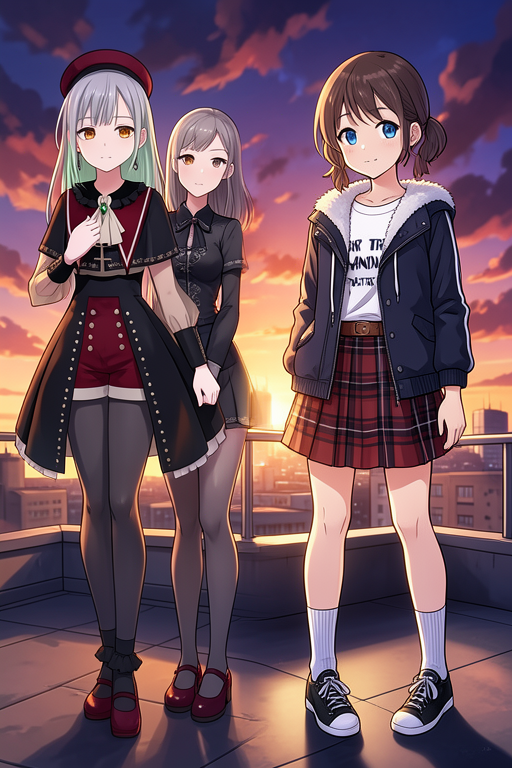
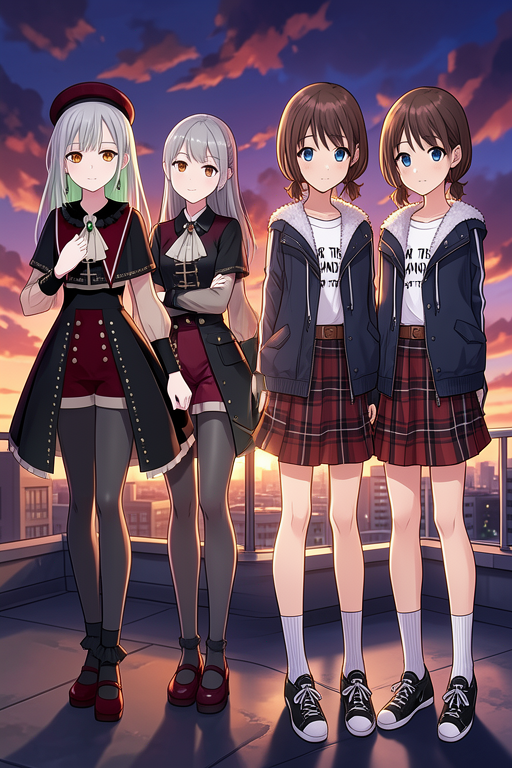
Improve image generation by adding options to skip scoring and handle errors
Add `--no-score` flag to skip scoring and improve retry logic for TPD errors in test_2pass_hug.py. Update asset metadata and images.

Replit-Commit-Author: Agent
Replit-Commit-Session-Id: 93f1d019-95a0-4049-84e3-6b3b1efc4c86
Replit-Commit-Checkpoint-Type: full_checkpoint
Replit-Commit-Event-Id: 5ef6bc3c-0992-4bcb-be31-88c50732a25e
Replit-Helium-Checkpoint-Created: true

diff --git a/test_2pass_hug.py b/test_2pass_hug.py
@@ -42,13 +42,15 @@ NINA_APPEARANCE = (
 
 # Pass 1: proven side-by-side — ConditioningSetMask hard masks deliver 9.6/10 and 10/10
 PASS1_PROMPT = (
-    "Mortis and Nina standing side by side on a rooftop at sunset, "
+    "only two girls, Mortis and Nina standing side by side on a rooftop at sunset, "
+    "exactly two characters, no extra people, "
     "full body view, anime illustration, dramatic sky background"
 )
 # Pass 2: ref-guided pose nudge toward contact / hugging
 PASS2_PROMPT = (
-    "Mortis and Nina hugging each other warmly on a rooftop at sunset, "
-    "arms around each other, leaning close, full body view, "
+    "only two girls, Mortis and Nina, hugging each other warmly on a rooftop at sunset, "
+    "arms wrapped around each other's backs, hands resting gently on back, "
+    "leaning close together, full body view, exactly two characters, no extra people, "
     "anime illustration, dramatic sky background"
 )
 
@@ -59,6 +61,8 @@ ap = argparse.ArgumentParser()
 ap.add_argument("--seed",     type=int, default=-1, help="Pass-1 seed (-1 = random)")
 ap.add_argument("--p2-tries", type=int, default=1,
                 help="How many different seeds to try for Pass 2 (pick best)")
+ap.add_argument("--no-score", action="store_true",
+                help="Skip Groq scoring (useful when daily token quota is spent)")
 args = ap.parse_args()
 
 seed = args.seed if args.seed >= 0 else int(uuid.uuid4().int % (2**31))
@@ -167,6 +171,11 @@ def score(img_bytes: bytes, char: str, appearance: str,
             m = re.search(r'\{.*\}', txt, re.S)
             return json.loads(m.group()) if m else {"raw": txt}
         except Exception as e:
+            err_str = str(e)
+            # Daily token quota (TPD) — no point retrying, bail immediately
+            if "tokens per day" in err_str or "TPD" in err_str:
+                print(f"\n  [score] Daily token quota reached — skipping score")
+                return {"raw": "quota exceeded"}
             wait = 2 ** attempt * 3
             print(f"\n  [score] Groq error (attempt {attempt+1}/4): {e} — retrying in {wait}s")
             time.sleep(wait)
@@ -213,7 +222,7 @@ pass1_bytes = wait_download(
     "attached_assets/_2pass_p1_sidebyside.png",
 )
 
-if GROQ_KEY:
+if GROQ_KEY and not args.no_score:
     print("\n  Pass 1 scores (with reference photos):")
     m1 = score(pass1_bytes, "Mortis", MORTIS_APPEARANCE, ref_bytes=mortis_raw)
     n1 = score(pass1_bytes, "Nina",   NINA_APPEARANCE,   ref_bytes=nina_raw)
@@ -257,7 +266,7 @@ for p2_k in range(args.p2_tries):
         f"attached_assets/_2pass_p2_{p2_k}.png",
     )
 
-    if GROQ_KEY:
+    if GROQ_KEY and not args.no_score:
         m2 = score(p2_bytes, "Mortis", MORTIS_APPEARANCE, ref_bytes=mortis_raw)
         n2 = score(p2_bytes, "Nina",   NINA_APPEARANCE,   ref_bytes=nina_raw)
         total = avg_score(m2) + avg_score(n2)
@@ -280,7 +289,7 @@ shutil.copy(f"attached_assets/_2pass_p2_{best_idx}.png",
 print(f"\n  ✓ Best Pass-2: seed={best_p2_seed}  total={best_p2_total:.1f}")
 
 # For multi-try: re-score the winner cleanly; single-try already printed above
-if GROQ_KEY and args.p2_tries > 1:
+if GROQ_KEY and not args.no_score and args.p2_tries > 1:
     print("\n── Best Pass-2 final scores ──")
     m2 = score(best_p2_bytes, "Mortis", MORTIS_APPEARANCE, ref_bytes=mortis_raw)
     n2 = score(best_p2_bytes, "Nina",   NINA_APPEARANCE,   ref_bytes=nina_raw)
